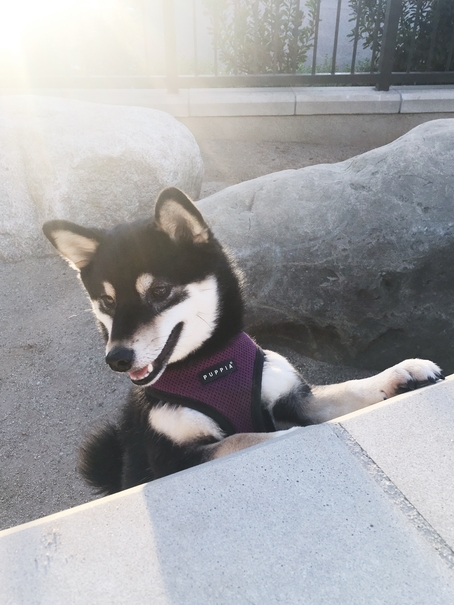
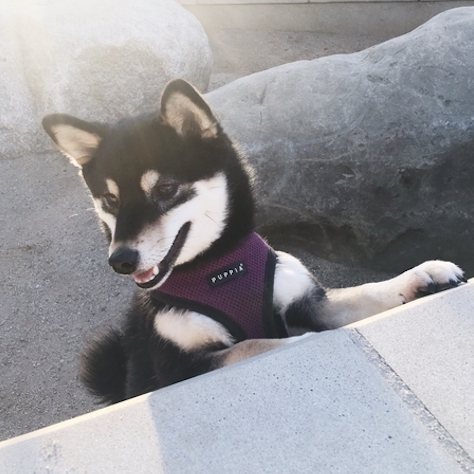
exercise2-css_update

diff --git a/page3_photos.html b/page3_photos.html
@@ -6,29 +6,19 @@
     <meta name="viewport" content="width=device-width, initial-scale=1.0">
     <meta name="description" content="Intro about me">
 
+    <link rel="stylesheet" href="css/style.css">
+
     <!-- title -->
     <title>Introduction</title>
+    <link rel="stylesheet" href="https://cdnjs.cloudflare.com/ajax/libs/normalize/8.0.1/normalize.min.css">
 
-    <!-- styles -->
-    <style media="screen">
-      body{
-        color: white;
-        background: black;
-      }
-      ul{list-style-type:none;}
-      ul li{
-        width:350px;
-        height:10px;
-        float:left;
-      }
-    </style>
   </head>
   <body>
     <!-- header of page -->
       <h1><font face="monaco" color="b3d9ff" size = "7"> <b>Here are some intresting photos!</b></font></h1>
     <p>
       <!-- navigations -->
-      <nav>
+      <nav class="nav-bar">
         <ul>
           <li><font face="verdana" size= "5"> <a href="index.html"> INTRO PAGE </a></li>
           <li><a href="page2_questions.html"> Q&A PAGE</a></li>
@@ -41,26 +31,26 @@
     <!-- start main contain of page -->
     <main>
       <section>
-        <ol>
+        <ol><font face="verdana" size= "3" color="white">
           <!-- image 1 -->
-          <li><img src="image/tomi.jpg" alt="tomi">
-            <p><font face="verdana" size= "3" color="white">This is my dog <b>Tomi</b>,
+          <li><img src="image/tomi.jpg" alt="tomi" width="500" height="500">
+            <p><p id="p-one"><font face="verdana" size= "3" color="white">This is my dog <b>Tomi</b>,
               he was born on Aug 2011, his breed is not that common yet in the States but is a Japanese breed called <b><i>Shiba Inu</i></b>.
               People often mislead him as a fox!
             </p></li>
             <br>
 
           <!-- image 2 -->
-          <li><img src="image/mika.jpg" alt="mika">
-            <p><font face="verdana" size= "3" color="white">This is my dog <b>Mika</b>,
+          <li><img src="image/mika.jpg" alt="mika" width="500" height="500">
+            <p><p id="p-two"><font face="verdana" size= "3" color="white">This is my dog <b>Mika</b>,
               she was born on Aug 2014, Mika is the same breed as Tomi, but a different color.
               People often mislead her as a husky puppy! But in fact she is already full grown.
             </p></li>
             <br>
 
           <!-- image 3 -->
-          <li><img src="image/tomiandmika.jpg" alt="mika">
-            <p><font face="verdana" size= "3" color="white">although Mika joined the family after Tomi and she is 3 years younger,
+          <li><img src="image/tomiandmika.jpg" alt="tomiandmika" width="500" height="500">
+            <p><p id="p-three"><font face="verdana" size= "3" color="white">although Mika joined the family after Tomi and she is 3 years younger,
               but as a strong indepentdent women, she is always the leader in the house.
             </p></li>
         </ol>

diff --git a/page2_questions.html b/page2_questions.html
@@ -6,29 +6,19 @@
     <meta name="viewport" content="width=device-width, initial-scale=1.0">
     <meta name="description" content="Intro about me">
 
+    <link rel="stylesheet" href="css/style.css">
+
     <!-- title -->
     <title>Introduction</title>
+    <link rel="stylesheet" href="https://cdnjs.cloudflare.com/ajax/libs/normalize/8.0.1/normalize.min.css">
 
-    <!-- styles -->
-    <style media="screen">
-      body{
-        color: white;
-        background: black;
-      }
-      ul{list-style-type:none;}
-      ul li{
-        width:350px;
-        height:10px;
-        float:left;
-      }
-    </style>
   </head>
   <body>
     <!-- header of page -->
       <h1><font face="monaco" color="b3d9ff" size = "7"> <b>Some Q & A</b></font></h1>
     <p>
       <!-- navigations -->
-      <nav>
+      <nav class="nav-bar">
         <ul>
           <li><font face="verdana" size= "5"> <a href="index.html"> INTRO PAGE </a></li>
           <li><a href="page2_questions.html"> Q&A PAGE</a></li>
@@ -44,7 +34,7 @@
       <!-- Q1 -->
       <section>
         <h3><font face="verdana" size= "5" color="4dc3ff">why you’re in this course?</h3>
-        <p><font face="verdana" size= "3" color="white">
+        <p><p id="p-one"><font face="verdana" size= "3" color="white">
           I enroll in Front-end development because I enjoy making and improving user interface,
           I like developing code where user can see and experience it. Therefore I want to learn more about front-end development.
         </p>
@@ -53,7 +43,7 @@
       <!-- Q2 -->
       <section>
         <h3><font face="verdana" size= "5" color="4dc3ff">experience with web development?</h3>
-        <p><font face="verdana" size= "3" color="white">
+        <p><p id="p-two"><font face="verdana" size= "3" color="white">
           I am not a very experienced programmer, but I did have basic knowledge on C#, python, HTML, CSS, flutter because of projects I have done.
           but overall, I am most experienced with C++.
         </p>
@@ -62,7 +52,7 @@
       <!-- Q3 -->
       <section>
         <h3><font face="verdana" size= "5" color="4dc3ff">hoping to learn?</h3>
-        <p><font face="verdana" size= "3" color="white">
+        <p><p id="p-three"><font face="verdana" size= "3" color="white">
           I am hoping to learn font-end concepts that applied in real world and companies.
           Hopefully can get a better understanding of what skill does the outside world hope a front-end developer need to obtain.
         </p>

diff --git a/index.html b/index.html
@@ -6,29 +6,22 @@
     <meta name="viewport" content="width=device-width, initial-scale=1.0">
     <meta name="description" content="Intro about me">
 
+    <link rel="stylesheet" href="css/style.css">
+
     <!-- title -->
     <title>Introduction</title>
+    <link rel="stylesheet" href="https://cdnjs.cloudflare.com/ajax/libs/normalize/8.0.1/normalize.min.css">
+
 
     <!-- styles -->
-    <style media="screen">
-      body{
-        color: white;
-        background: black;
-      }
-      ul{list-style-type:none;}
-      ul li{
-        width:350px;
-        height:10px;
-        float:left;
-      }
-    </style>
+
   </head>
   <body>
     <!-- header of page -->
-      <h1><font face="monaco" color="b3d9ff" size = "7"> <b>Hello! I'm Mina Moslehpour</b></font></h1>
+      <h1><font face="monaco" color="b3d9ff" size = "7"> Hello! I'm <b>Mina Moslehpour</b></font></h1>
     <p>
       <!-- navigations -->
-      <nav>
+      <nav class="nav-bar">
         <ul>
           <li><font face="verdana" size= "5"> <a href="index.html"> INTRO PAGE </a></li>
           <li><a href="page2_questions.html"> Q&A PAGE</a></li>
@@ -44,8 +37,8 @@
       <!-- Q1 -->
       <section>
         <h3><font face="verdana" size= "5" color="4dc3ff">About Me</h3>
-        <p><font face="verdana" size= "3" color="white">Hello all,
-          I am Mina and I am currently a senior with <b>Computer Science</b> Major in CSUF.
+        <p><p id="p-one"><font face="verdana" size= "3" color="white">Hello all,
+          I am <b>Mina</b> and I am currently a senior with Computer Science Major in CSUF.
           I am about to enter my last year in CSUF as a computer science major.
           My programming experience is up to courses i have learn so far, have basic experience with using python, HTML, CSS,  C++ and C# to do some of my projects.
           Hopefully I can get a job, intern as a software engineer!
@@ -55,7 +48,7 @@
       <!-- Q2 -->
       <section>
         <h3><font face="verdana" size= "5" color="4dc3ff">Some personal intrest</h3>
-        <p><font face="verdana" size= "3" color="white">
+        <p><p id="p-two"><font face="verdana" size= "3" color="white">
           My personal intrest is taking photos and exploring different part of the world,
           although I have not yet visited a lot of contry,
           but I enjoy going on road trip and visit different national parks and take amazing photos.

diff --git a/css/style.css b/css/style.css
@@ -1,0 +1,51 @@
+body{
+  background-color: rgb(11, 18, 41);
+}
+
+ul{
+  list-style-type: none;
+}
+
+ul li{
+  width:350px;
+  height:10px;
+  float:left;
+}
+
+a{
+  text-decoration: none;
+}
+
+a:hover {
+	color: #FF2D00;
+}
+
+.nav-bar {
+  border: 1px solid rgb(100%, 100%, 100%); border: 5px solid rgba(100%, 100%, 100%, 0.8);
+  background: rgb(96, 125, 139);
+}
+
+b {
+  font-family: "Times New Roman", Times, serif;
+}
+
+#p-one{
+  background: rgb(100, 137, 122);
+}
+
+#p-two{
+  background: rgb(136, 126, 142);
+}
+
+#p-three{
+  background: rgb(169, 105, 110);
+}
+
+ol {
+  list-style-type: lower-alpha;
+}
+
+.thumbnail-image {
+  display: block;
+  width: 100%;
+}
